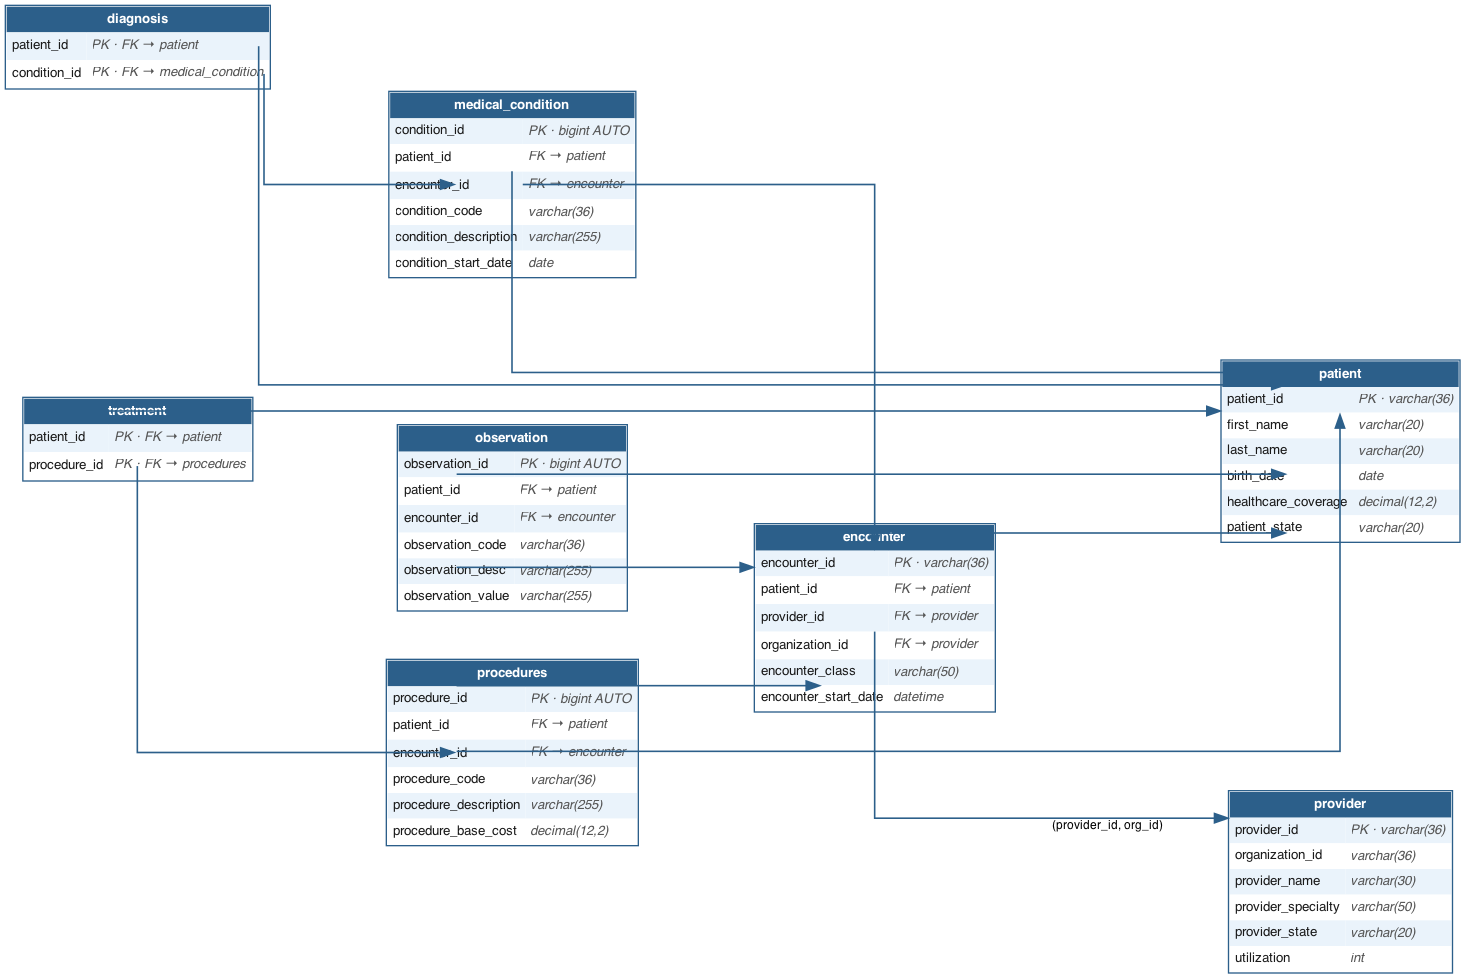
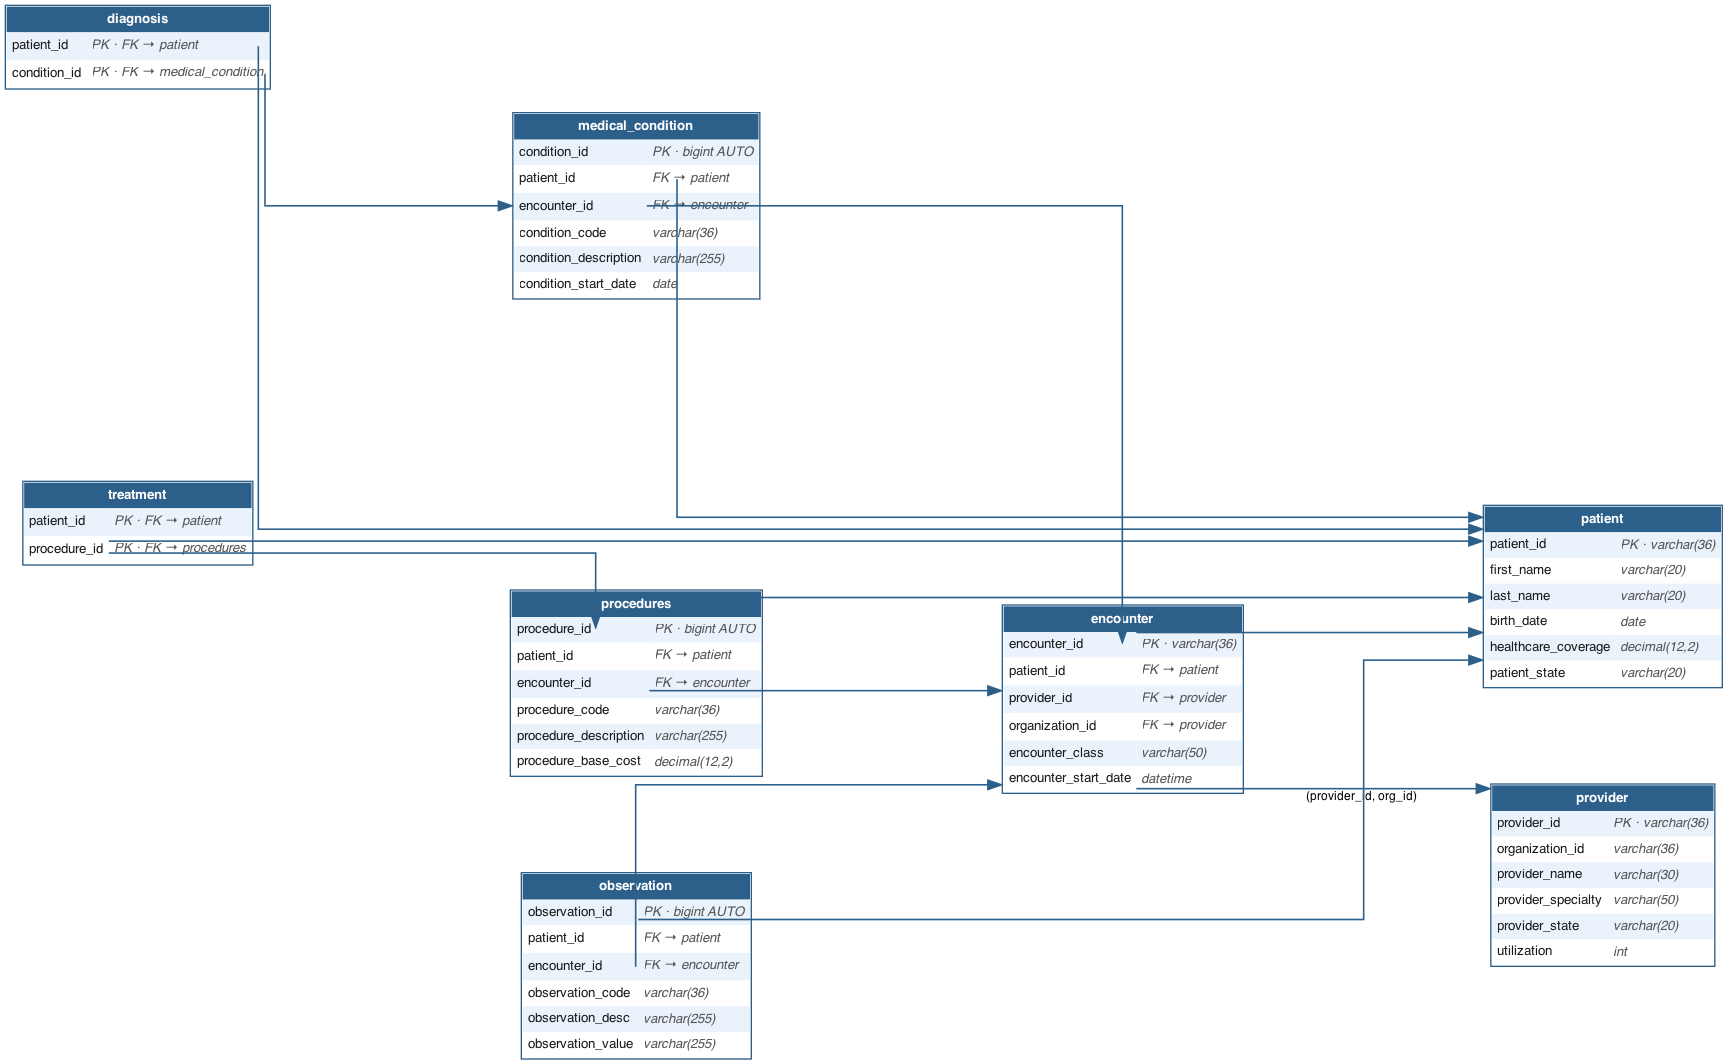
fix(sql): cleaner ER diagram + remove stray README code block
ER diagram (scripts/generate_images.py):
- Added compass-direction ports (:e on child, :w on parent) so edges
  exit/enter tables at boundaries instead of routing through them
- Increased nodesep (0.5 -> 1.0) and ranksep (1.2 -> 2.5) for breathing room
- Added concentrate=true to merge parallel edges (multiple edges to patient
  now share endpoints cleanly)
- Switched composite-FK label from label= to xlabel= (graphviz's external
  label that renders properly with splines=ortho; the prior label was
  silently dropped per the 'Orthogonal edges do not currently handle edge
  labels' warning)

README:
- Removed dangling orphaned code block (a duplicate '# 5. (Optional) Run
  the SQL skill demonstrations' block left over from an earlier rewrite
  of the How to Reproduce section)

Changed region(s): [[0.0, 0.3681, 1.0, 1.0], [0.0, 0.0, 0.6143, 0.3067], [0.7065, 0.8282, 0.7986, 0.8589]]

diff --git a/projects/database-systems/sql-nosql-databases-info579/scripts/generate_images.py b/projects/database-systems/sql-nosql-databases-info579/scripts/generate_images.py
@@ -72,9 +72,11 @@ def generate_er_diagram(output_path: Path) -> None:
         bgcolor="white",
         fontname="Helvetica",
         fontsize="11",
-        nodesep="0.5",
-        ranksep="1.2",
-        splines="ortho",
+        nodesep="1.0",
+        ranksep="2.5",
+        splines="ortho",  # orthogonal edges, with compass-direction ports
+                          # below to keep them outside table boundaries
+        concentrate="true",  # merge parallel edges going to the same target
         # Point to the Homebrew-installed dot binary
         # (graphviz library respects PATH; we also set it explicitly below)
     )
@@ -190,38 +192,43 @@ def generate_er_diagram(output_path: Path) -> None:
     # ------------------------------------------------------------------
     # FK edges: (child_table:child_port, parent_table:parent_port, label)
     # ------------------------------------------------------------------
+    # Compass-direction ports (`:e` exit east, `:w` enter west) force
+    # graphviz to route edges from table boundaries rather than through
+    # the middle of tables, avoiding the overlap issue.
     edges: list[tuple[str, str, str]] = [
         # encounter → patient
-        ("encounter:patient_id",               "patient:patient_id",         ""),
+        ("encounter:patient_id:e",             "patient:patient_id:w",         ""),
         # encounter → provider (composite)
-        ("encounter:provider_id",              "provider:provider_id",       "(provider_id, org_id)"),
+        ("encounter:provider_id:e",            "provider:provider_id:w",       "(provider_id, org_id)"),
         # medical_condition → patient
-        ("medical_condition:patient_id",       "patient:patient_id",         ""),
+        ("medical_condition:patient_id:e",     "patient:patient_id:w",         ""),
         # medical_condition → encounter
-        ("medical_condition:encounter_id",     "encounter:encounter_id",     ""),
+        ("medical_condition:encounter_id:e",   "encounter:encounter_id:w",     ""),
         # diagnosis → patient
-        ("diagnosis:patient_id",               "patient:patient_id",         ""),
+        ("diagnosis:patient_id:e",             "patient:patient_id:w",         ""),
         # diagnosis → medical_condition
-        ("diagnosis:condition_id",             "medical_condition:condition_id", ""),
+        ("diagnosis:condition_id:e",           "medical_condition:condition_id:w", ""),
         # procedures → patient
-        ("procedures:patient_id",              "patient:patient_id",         ""),
+        ("procedures:patient_id:e",            "patient:patient_id:w",         ""),
         # procedures → encounter
-        ("procedures:encounter_id",            "encounter:encounter_id",     ""),
+        ("procedures:encounter_id:e",          "encounter:encounter_id:w",     ""),
         # treatment → patient
-        ("treatment:patient_id",               "patient:patient_id",         ""),
+        ("treatment:patient_id:e",             "patient:patient_id:w",         ""),
         # treatment → procedures
-        ("treatment:procedure_id",             "procedures:procedure_id",    ""),
+        ("treatment:procedure_id:e",           "procedures:procedure_id:w",    ""),
         # observation → patient
-        ("observation:patient_id",             "patient:patient_id",         ""),
+        ("observation:patient_id:e",           "patient:patient_id:w",         ""),
         # observation → encounter
-        ("observation:encounter_id",           "encounter:encounter_id",     ""),
+        ("observation:encounter_id:e",         "encounter:encounter_id:w",     ""),
     ]
 
     for child_port, parent_port, label in edges:
+        # Use xlabel (external label) instead of label — ortho splines
+        # don't render mid-line labels properly. xlabel floats freely.
         dot.edge(
             child_port,
             parent_port,
-            label=label,
+            xlabel=label,
             arrowhead="normal",
             arrowtail="none",
             color="#2C5F8A",

diff --git a/projects/database-systems/sql-nosql-databases-info579/README.md b/projects/database-systems/sql-nosql-databases-info579/README.md
@@ -157,12 +157,6 @@ The loader handles column name mapping between Synthea CSVs and the schema, conv
 
 Password handling: reads from `$MYSQL_PASSWORD` env var, or prompts interactively if not set.
 
-# 5. (Optional) Run the SQL skill demonstrations
-for f in sql/sql_skill_demos/*.sql; do
-  mysql -u root -p Final_Project < "$f"
-done
-```
-
 Each `.sql` file starts with a comment header explaining what the query does.
 
 ### Expected row counts
